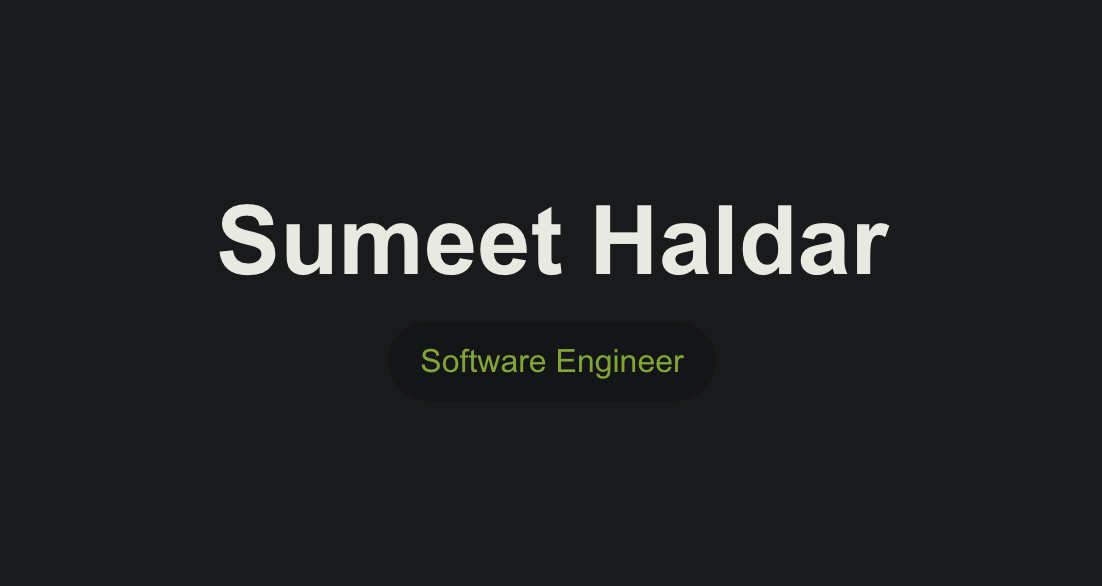
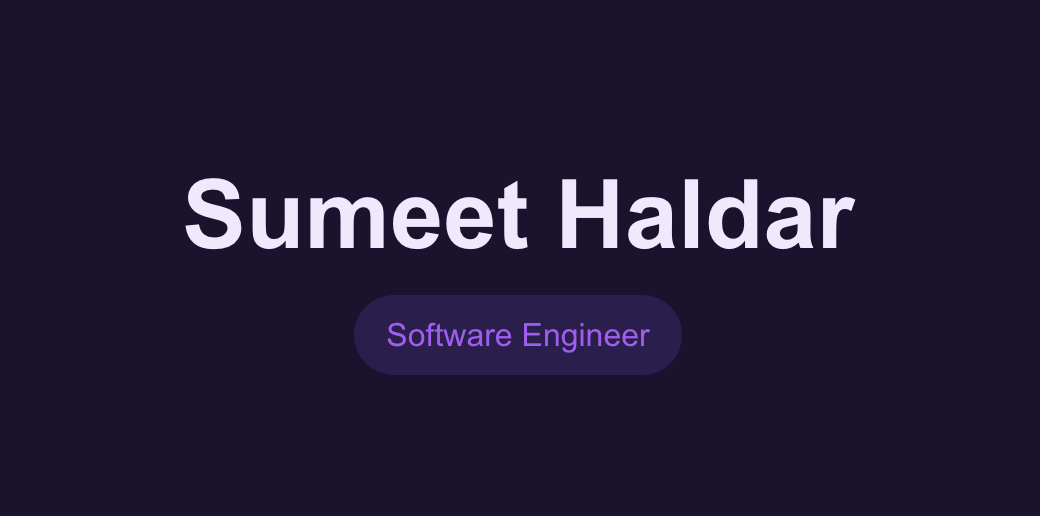
add spotlight in main layout, and update ui

Changed region(s): [[0.1538, 0.3411, 0.8308, 0.4961], [0.3385, 0.5581, 0.6769, 0.7442]]

diff --git a/app/layout.tsx b/app/layout.tsx
@@ -2,6 +2,7 @@ import type { Metadata } from "next";
 import { Roboto } from "next/font/google";
 import "./globals.css";
 import { ThemeProvider } from "@/context/ThemeContext";
+import Spotlight from "@/components/core/Spotlight";
 
 const roboto = Roboto({
   subsets: ["latin"],
@@ -11,6 +12,7 @@ const roboto = Roboto({
 });
 
 export const metadata: Metadata = {
+  metadataBase: new URL("https://hsumeet.site"),
   title: "Sumeet Haldar | Software Engineer",
   description: "Sumeet Haldar, a developer crafting software that moves fast and scales even faster.",
   openGraph: {
@@ -85,6 +87,7 @@ export default function RootLayout({
       </head>
       <body className={`${roboto.variable} antialiased`}>
         <ThemeProvider>
+           <Spotlight />
           {children}
         </ThemeProvider>
       </body>

diff --git a/components/core/ThemeSwitcher.tsx b/components/core/ThemeSwitcher.tsx
@@ -1,8 +1,8 @@
 "use client";
 
-import React, { useEffect, useState } from "react";
+import React from "react";
 import { useTheme } from "@/context/ThemeContext";
-import { themes, getThemeColors } from "@/lib/theme";
+import { themes } from "@/lib/theme";
 
 export default function ThemeSwitcher() {
   const { currentTheme, setTheme } = useTheme();

diff --git a/app/page.tsx b/app/page.tsx
@@ -1,10 +1,8 @@
-import Spotlight from "@/components/core/Spotlight";
 import MainPage from "@/components/sections/MainPage";
 
 export default function Home() {
   return (
     <>
-      <Spotlight />
       <MainPage />
     </>
   );

diff --git a/lib/theme.ts b/lib/theme.ts
@@ -28,7 +28,7 @@ export interface ThemeJSON {
   '--spotlight'?: string;
 }
 
-export const defaultTheme = "green";
+export const defaultTheme = "purple";
 
 export const defaultThemeColors: ThemeColors = {
   bg: '#0F172A',
